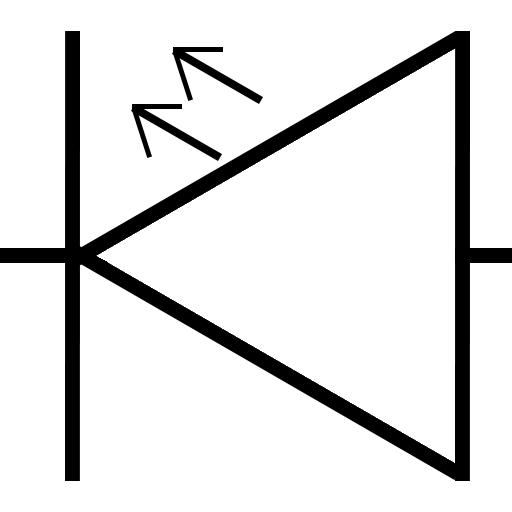
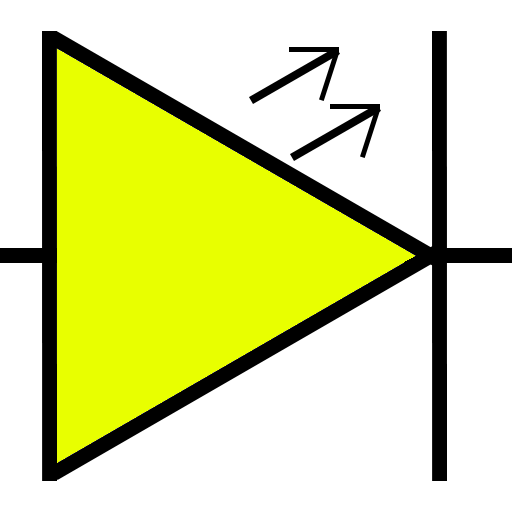
Добавление интеракторов и наблюдателей

diff --git a/IOTEST/IOTEST/wwwroot/TestItems/Classes.js b/IOTEST/IOTEST/wwwroot/TestItems/Classes.js
@@ -50,38 +50,107 @@ SavedMap.InteractorWorker = class {
         this.On = on;
         this.Interactor = interactor;
     }
-    Work() {
-        if (this.On.Test()) this.Interactor.Invoke(this.Ids);
+    Work(SceneSum, Objs, Trgs) {
+        var Diya = this.On.Test(SceneSum, Objs, Trgs);
+        console.log(Diya);
+        this.Interactor.Invoke(Diya, this.Ids, Objs, Trgs);
     }
     Ids;
     On;
     Interactor;
 }
 SavedMap.InteractorWorker.Interactor = class {
-    constructor() {
+    constructor(Type,Data ) {
+
+
+        switch (Type) {
+            case "Variator":
+                this.Invoke = (istrue, ids, Objs, Trgs) => {
+                    Objs.filter((e) => ids.includes(e.Id)).forEach((t) => {
+                        t.SetVariant(istrue ? Data[1] : Data[0]);
+                    })
+                };
+                break;
+            case "RotatorSet":
+                this.Invoke = (istrue, ids, Objs, Trgs) => {
+                    Objs.filter((e) => ids.includes(e.Id)).forEach((t) => {
+                        t.SetRotation(istrue ? Data[1] : Data[0]);
+                    })
+                };
+                break;
+            case "RotatorAdd":
+                this.Invoke = (istrue, ids, Objs, Trgs) => {
+                    Objs.filter((e) => ids.includes(e.Id)).forEach((t) => {
+                        t.AddRotation(istrue ? Data[1] : Data[0]);
+                    })
+                };
+                break;
+            case "Visible":
+                this.Invoke = (istrue, ids, Objs, Trgs) => {
+                    Objs.filter((e) => ids.includes(e.Id)).forEach((t) => {
+                        t.SetVisible(istrue ? Data[1] : Data[0]);
+                    })
+                };
+                break;
+        }
+   
 
     }
-    Invoke(ids) {
-        
-        console.log("Inv");
-    }
+    Invoke(istrue, ids, Objs, Trgs)
+    { }
 }
 SavedMap.InteractorWorker.onc = class {
     constructor() {
         this.Invoked = false;
-        window.onmousemove = (e) => { this.EventPresented(e) };
     }
     Invoked;
-    EventPresented(e) {
+    EventPresented() {
         this.Invoked = true;
     }
-    Test() {
+    Test(SceneSum, Obgs, Trgs) {
+
         if (this.Invoked) {
             this.Invoked = false;
             return true;
         }
-        return false;      
+        return false;
     }
+}
+SavedMap.InteractorWorker.OnSum = class extends SavedMap.InteractorWorker.onc {
+    constructor(type, agr) {
+        super();
+        this.Type = type;
+        this.Agr = agr;
+    }
+    Type;
+    Agr;
+    Test(SceneSum, Obgs, Trgs) {
+        if (SceneSum == undefined) return false;
+
+        switch (this.Type) {
+            case "scene":
+                if (eval((SceneSum + this.Agr).toString())) return true;
+                break;
+        }
+        return false;
+    }
+
+}
+SavedMap.InteractorWorker.OnHover = class extends SavedMap.InteractorWorker.onc {
+    constructor(ids) {
+        super();
+        this.Ids = ids;
+    }
+    Ids;
+    Test(SceneSum,Obgs, Trgs) {
+        var rt = false;
+        Obgs.filter((e) => this.Ids.includes(e.Id)).forEach((t) => {          
+            if (t.MouseOnThis) rt = true;
+
+        })
+        return rt;
+    }
+
 }
 
 SavedMap.sTrigger.PositionT = class {
@@ -95,18 +164,22 @@ SavedMap.sTrigger.PositionT = class {
     Size;
 }
 SavedMap.sObject.PositionT = class {
-    constructor(x, y, z, s, r) {
+    constructor(x, y, z, s, r, fx = 1, fy = 1) {
         this.X = x;
         this.Y = y;
         this.Z = z;
         this.Size = s;
         this.Rotation = r;
+        this.FlipX = fx;
+        this.FlipY = fy;
     }
     X;
     Y;
     Z;
     Size;
     Rotation;
+    FlipX;
+    FlipY;
 }
 class VisualMap {
     constructor(smap) {
@@ -114,7 +187,7 @@ class VisualMap {
         smap.Objects.forEach((e) => {
             switch (e.Group) {
                 case "Electrons":
-                    var Obj = new ElectronsObjects(parseInt(e.Position.Size) / 100, parseInt(e.Position.X), parseInt(e.Position.Y), parseInt(e.Position.Rotation), ElectronsObjects.Types[e.Type], e.State == "Dynamic" ? true : false, e.Variant);
+                    var Obj = new ElectronsObjects(parseInt(e.Position.Size * e.Position.FlipX) / 100, parseInt(e.Position.Size * e.Position.FlipY) / 100, parseInt(e.Position.X), parseInt(e.Position.Y), parseInt(e.Position.Rotation), ElectronsObjects.Types[e.Type], e.State == "Dynamic" ? true : false, e.Variant);
                     Obj.GroupType = e.Group + "." + e.Type;
                     Obj.Id = e.Id;
                     Obj.Weight = e.Weight;
@@ -130,12 +203,13 @@ class VisualMap {
         });
         smap.Interactive.forEach((e) => {
             this.Interactive.push(e);
-            
+
         });
     }
-    Work() {
+    Work(SceneSum) {
+
         this.Triggers.forEach((e) => e.Work(this.Objects));
-        this.Interactive.forEach((e) => e.Work());
+        this.Interactive.forEach((e) => e.Work(SceneSum, this.Objects, this.Triggers));
     }
     Objects = [];
     Triggers = [];
@@ -155,9 +229,8 @@ class VisualTest {
         this.resize(this);
     }
     TestWorker(delta) {
-        this.Vmap.Work();
+        this.Vmap.Work(this.SceneSum);
         this.SceneSum = this.Vmap.Triggers.map(function (item) { return item.Sum; }).reduce((a, b) => a + b, 0);
-        console.log(this.SceneSum);
     }
     VDisplay;
     VDisplayContainer;
@@ -182,12 +255,19 @@ class VisualTest {
 
 class DragableObject {
     static NullTexture = 'TestItems/Prefabs/Shared/Null.png';
-    constructor(img, scale, x, y, r, cc = true, drag = false) {
-        this.texture = PIXI.Texture.from(img);
+    constructor(variants, variant, sx, sy, x, y, r, cc = true, drag = false) {
+        this.texture = PIXI.Texture.from(variants[variant]);
+        this.Variant = variant;
+        this.Variants = variants;
+        this.Rotation = r;
+        this.MouseOnThis = false;
+        this.Visible = true;
         this.sprite = new PIXI.Sprite(this.texture);
         this.sprite.x = x || 1;
         this.sprite.y = y || 1;
-        this.sprite.scale.set(scale || 1);
+        this.sprite.scale.set(1);
+        this.sprite.scale.x = sx;
+        this.sprite.scale.y = sy;
         this.sprite.anchor.set(cc ? 0.5 : 0);
         this.sprite.interactive = drag;
         this.sprite.buttonMode = drag;
@@ -196,27 +276,39 @@ class DragableObject {
             .on('pointerdown', this.onDragStart)
             .on('pointerup', this.onDragEnd)
             .on('pointerupoutside', this.onDragEnd)
-            .on('pointermove', this.onDragMove);
+            .on('pointermove', this.onDragMove)
+            .on('pointerover', () =>this.onPointerOver(this))
+            .on('pointerout', () =>this.onPointerOut(this));
     }
-
+    Variant;
+    Variants;
     texture;
     sprite;
+    MouseOnThis;
+    GroupType;
+    Id;
+    Weight;
+    Rotation;
+    Visible;
+    onPointerOver(tz) {
+
+        tz.MouseOnThis = true;
+    }
+    onPointerOut(tz) {
+        tz.MouseOnThis = false;
+    }
     onDragStart(event) {
+
         this.data = event.data;
         this.alpha = 0.5;
         this.dragging = true;
     }
-    GroupType;
-    Id;
-    Weight;
-
-    onDragEnd() {
+    onDragEnd(event) {
         this.alpha = 1;
         this.dragging = false;
         this.data = null;
     }
-
-    onDragMove() {
+    onDragMove(event) {
         if (this.dragging) {
             const newPosition = this.data.getLocalPosition(this.parent);
             this.hasposx = newPosition.x;
@@ -228,8 +320,31 @@ class DragableObject {
 
         }
     }
-
-}
+    SetVariant(variant) {
+        if (this.Variant == variant) return;
+        this.Variant = variant;
+        this.sprite.texture = this.texture = PIXI.Texture.from(this.Variants[variant]);
+        console.log(variant);
+    }
+    SetRotation(rotation) {
+        if (this.Rotation == rotation) return;
+        this.Rotation = rotation;
+        this.sprite.rotation = Math.PI / 180 * this.Rotation;
+        console.log(rotation);
+    }
+    AddRotation(rotation) {
+        if (0 == rotation) return;
+        this.Rotation += rotation;
+        this.sprite.rotation = Math.PI / 180 * this.Rotation;
+        console.log(rotation);
+    }
+    SetVisible(visible) {
+        if (this.Visible == visible) return;
+        this.Visible = visible;
+        this.sprite.visible = this.Visible;
+        console.log(visible);
+    }
+} 
 class ElectronsObjects extends DragableObject {
     static Types = {
         Resistor: {
@@ -257,13 +372,14 @@ class ElectronsObjects extends DragableObject {
             textures: ['TestItems/Prefabs/Electrons/Reostat.png']
         },
     }
-    constructor(scale, x, y, r, type, isdragable, varitant) {
+    constructor(sx, sy, x, y, r, type, isdragable, varitant) {
         var texture = type.textures[varitant];
         if (texture === undefined) texture = DragableObject.NullTexture;
-        super(texture, scale, x, y, r, true, isdragable);
+        super(type.textures, varitant, sx, sy, x, y, r, true, isdragable);
         this.type = type;
     }
     type;
+
 }
 
 class Trigger {

diff --git a/IOTEST/IOTEST/wwwroot/js/Test.js b/IOTEST/IOTEST/wwwroot/js/Test.js
@@ -23,20 +23,19 @@ var Smap = new SavedMap(
         new SavedMap.sObject("Static", "Electrons", "Wire", new SavedMap.sObject.PositionT(175, 100, 1, 15, 90), 1, 0, 1),
 
 
-        new SavedMap.sObject("Static", "Electrons", "Led", new SavedMap.sObject.PositionT(100, 100, 1, 20, 0), 0, 1, 0),
 
-        new SavedMap.sObject("Dynamic", "Electrons", "Led", new SavedMap.sObject.PositionT(100, 200, 1, 20, 0), 1, 2, 3),
-        new SavedMap.sObject("Dynamic", "Electrons", "Battery", new SavedMap.sObject.PositionT(100, 300, 1, 20, 0), 0, 3, 2),
+        new SavedMap.sObject("Dynamic", "Electrons", "Led", new SavedMap.sObject.PositionT(100, 200, 1, 20, 0,-1,1), 0, 1, 3),
+        new SavedMap.sObject("Dynamic", "Electrons", "Battery", new SavedMap.sObject.PositionT(100, 300, 1, 20, 0), 0, 2, 2),
 
     ],
     [
-        new SavedMap.sTrigger(true, true, new SavedMap.sTrigger.PositionT(325 + 150, 100, 50), 1, 1, [3]),
+        new SavedMap.sTrigger(true, true, new SavedMap.sTrigger.PositionT(325 + 150, 100, 50), 1, 1, [2]),
         new SavedMap.sTrigger(true, true, new SavedMap.sTrigger.PositionT(325 + 150, 400, 50), 1, 1, [1]),
         //    new SavedMap.sTrigger(true,false,new SavedMap.sTrigger.PositionT(500,300,50),1),
     ],
     [
-        new SavedMap.InteractorWorker([1], new SavedMap.InteractorWorker.onc(), new SavedMap.InteractorWorker.Interactor ())
-
+             new SavedMap.InteractorWorker([1], new SavedMap.InteractorWorker.OnHover([1]), new SavedMap.InteractorWorker.Interactor("Variator",[0,1])),
+        new SavedMap.InteractorWorker([2], new SavedMap.InteractorWorker.OnSum("scene", ">=2"), new SavedMap.InteractorWorker.Interactor("RotatorSet", [0, 90])),
     ]
 
 );
